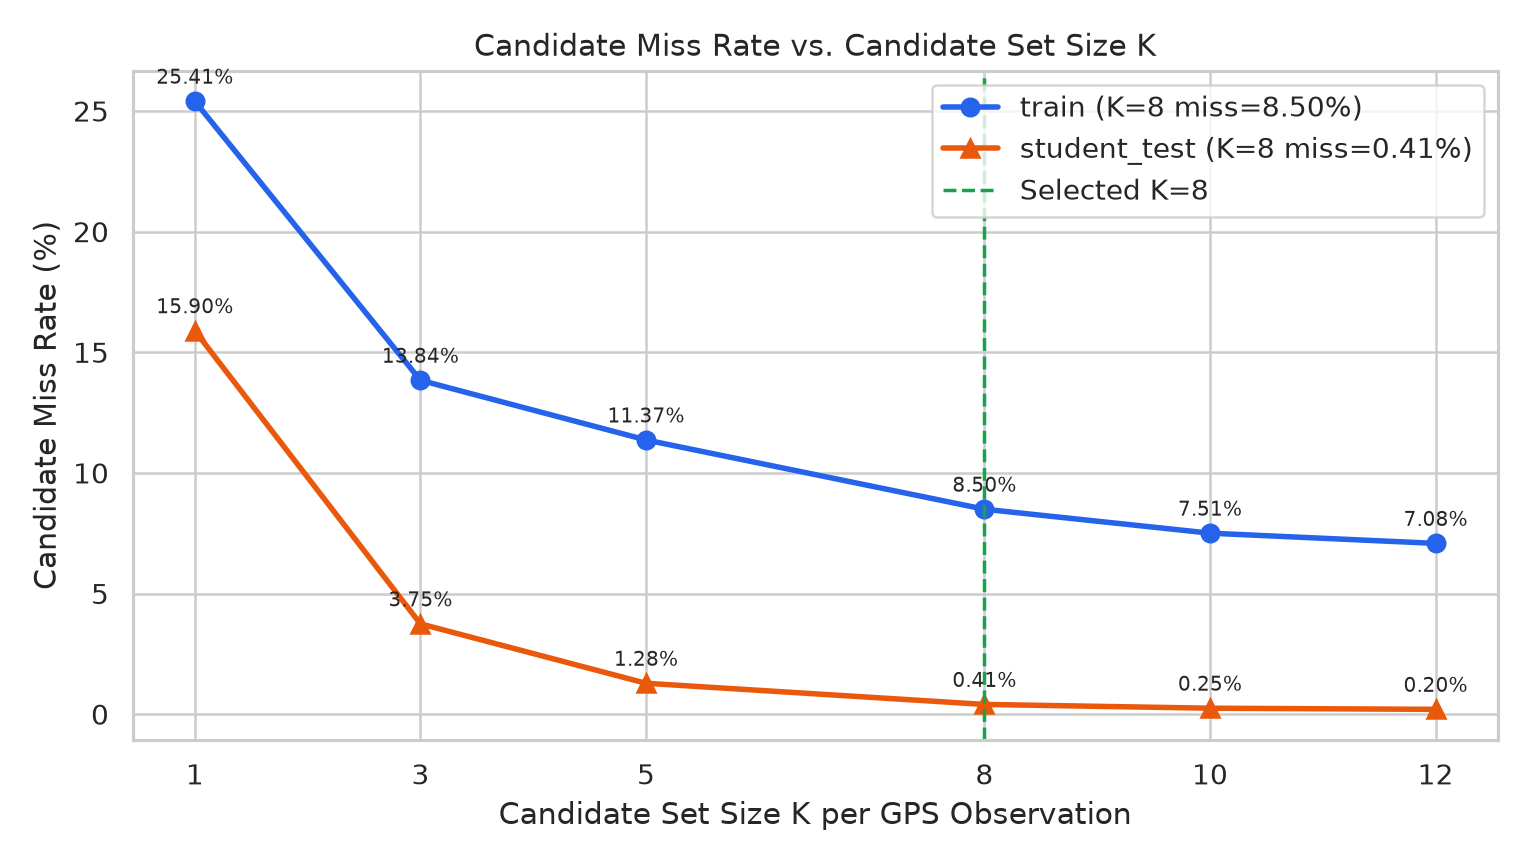
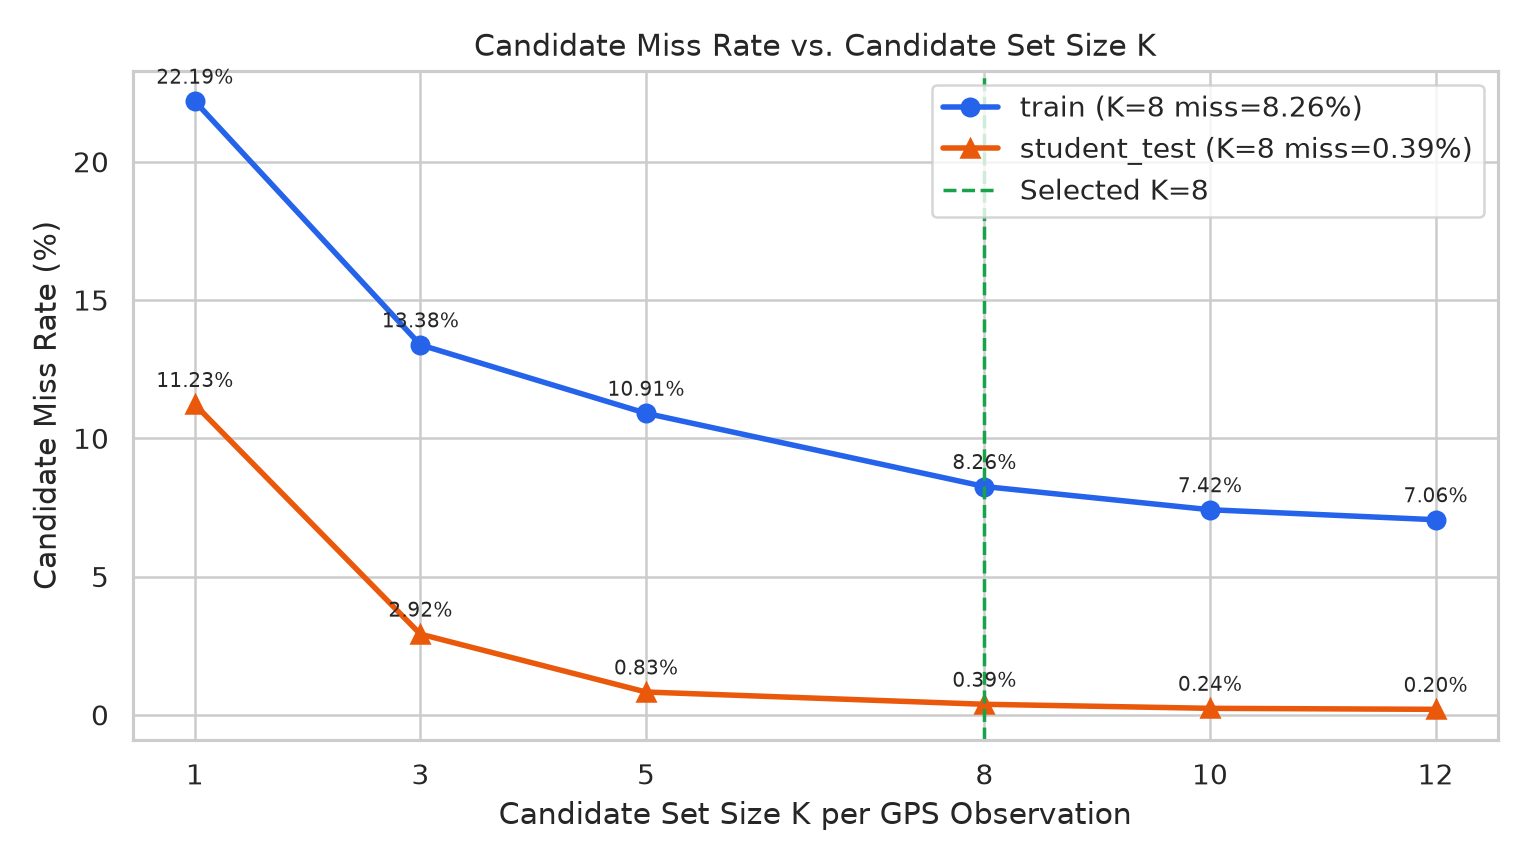
feat(features): smoothed t+/-4 trajectory window and 2-sided chain margin descriptors

diff --git a/src/features/feature_engineering.py b/src/features/feature_engineering.py
@@ -12,6 +12,7 @@ import matplotlib.pyplot as plt
 import numpy as np
 import pandas as pd
 import seaborn as sns
+from scipy.ndimage import gaussian_filter1d
 
 from src.eda.inventory_and_quality import BASE_DIR, load_trip_raw
 from src.eda.trajectory_analysis import project_coords_to_utm
@@ -146,27 +147,47 @@ def extract_trip_features(
     # Group 4: Trajectory Kinematics & Local Window (5)
     speed_feat = np.broadcast_to(gps_speed[:, None], (n, k))
     dt_feat = np.broadcast_to(np.clip(dt_prev, 0.0, 600.0)[:, None], (n, k))
-    pts_prev = np.vstack([pts_xy[:1], pts_xy[:-1]]) if n > 1 else pts_xy
-    pts_next = np.vstack([pts_xy[1:], pts_xy[-1:]]) if n > 1 else pts_xy
+    idx_arr = np.arange(n)
+    if n > 1:
+        sm_xy = np.column_stack(
+            [
+                gaussian_filter1d(pts_xy[:, 0], sigma=2.5, mode="nearest"),
+                gaussian_filter1d(pts_xy[:, 1], sigma=2.5, mode="nearest"),
+            ]
+        )
+    else:
+        sm_xy = pts_xy
+    pts_prev = sm_xy[np.maximum(0, idx_arr - 4)]
+    pts_next = sm_xy[np.minimum(n - 1, idx_arr + 4)]
     dist_prev_obs = _point_to_cand_segments_dist(pts_prev, ca, cab, clen2)
     dist_next_obs = _point_to_cand_segments_dist(pts_next, ca, cab, clen2)
-    mean_win3 = (dist_prev_obs + cand_dists + dist_next_obs) / 3.0
+    mean_win3_raw = (dist_prev_obs + cand_dists + dist_next_obs) / 3.0
+    mean_win3 = mean_win3_raw - np.min(mean_win3_raw, axis=1, keepdims=True)
 
     # Group 5: Graph Topology & Continuity (4)
     from_in = in_deg[cand_u].astype(np.float64)
     to_out = out_deg[cand_v].astype(np.float64)
     bidir = is_bidir_all[cand_arcs]
 
-    # Top-3 nearest candidates by distance at t-1 for connectivity check
-    dist_order_prev = np.argsort(cand_dists, axis=1)[:, : min(3, k)]
-    top3_arcs_prev = np.take_along_axis(cand_arcs, dist_order_prev, axis=1)
-    top3_v_prev = v_all[top3_arcs_prev]
+    # 2-sided local connected-chain cost margin across (t-3, t, t+3)
+    emit_loc = cand_dists + 1.5 * (1.0 - cos_sm)
+    p_idx = np.maximum(0, idx_arr - 3)
+    n_idx = np.minimum(n - 1, idx_arr + 3)
 
-    prev_conn = np.zeros((n, k), dtype=np.float64)
-    if n > 1:
-        same_arc = np.any(cand_arcs[1:, :, None] == top3_arcs_prev[:-1, None, :], axis=2)
-        adj_arc = np.any(cand_u[1:, :, None] == top3_v_prev[:-1, None, :], axis=2)
-        prev_conn[1:] = (same_arc | adj_arc).astype(np.float64)
+    same_p = cand_arcs[:, :, None] == cand_arcs[p_idx, None, :]
+    conn_p = cand_u[:, :, None] == cand_v[p_idx, None, :]
+    ut_p = conn_p & (cand_v[:, :, None] == cand_u[p_idx, None, :])
+    pen_p = np.where(same_p, 0.0, np.where(conn_p, np.where(ut_p, 8.0, 0.5), 15.0))
+    best_p = np.min(emit_loc[p_idx, None, :] + pen_p, axis=2)
+
+    same_n = cand_arcs[:, :, None] == cand_arcs[n_idx, None, :]
+    conn_n = cand_v[:, :, None] == cand_u[n_idx, None, :]
+    ut_n = conn_n & (cand_u[:, :, None] == cand_v[n_idx, None, :])
+    pen_n = np.where(same_n, 0.0, np.where(conn_n, np.where(ut_n, 8.0, 0.5), 15.0))
+    best_n = np.min(emit_loc[n_idx, None, :] + pen_n, axis=2)
+
+    chain_score = best_p + emit_loc + best_n
+    prev_conn = chain_score - np.min(chain_score, axis=1, keepdims=True)
 
     X = np.stack(
         [
@@ -334,7 +355,7 @@ def plot_feature_separability(train_cache: Path) -> None:
         ("dist_to_arc_m", "Point-to-Arc Distance (m, clipped 60 m)", (0.0, 60.0)),
         ("dist_diff_from_best_m", "Distance Above Best Candidate (m, clipped 50 m)", (0.0, 50.0)),
         ("cos_heading_diff_smooth", "Cosine of Smoothed Heading Difference", (-1.0, 1.0)),
-        ("prev_cand_connected", "Connected to Top-3 Candidates at t-1", None),
+        ("prev_cand_connected", "2-Sided Local Chain Cost Margin (clipped 40 m)", (0.0, 40.0)),
     ]
 
     sns.set_theme(style="whitegrid")

diff --git a/reports/features/Feature_Engineering_Report.md b/reports/features/Feature_Engineering_Report.md
@@ -7,23 +7,24 @@
 
 ## 1. Candidate Generation and Route Alignment
 
-In raw form, each trip holds up to 307,392 road arcs, while `.route` lists traversed `arc_id`s rather than per-observation labels. To convert map-matching into supervised classification plus sequential decoding, we execute two pre-modeling steps:
+In raw form, each trip holds up to 307,392 road arcs, while `.route` lists traversed `arc_id` values rather than per-observation labels. To convert map-matching into supervised classification plus sequential decoding, we run two pre-modeling steps:
 
-1. **Monotonic DP alignment (`align_route_to_observations`):** On labeled `train` and `student_test` trips, dynamic programming aligns each GPS observation $t$ monotonically onto `.route` indices $j_t \in [j_{t-1}, j_{t-1} + 15]$ using point-to-arc distance plus heading alignment (`1.5 * (1 - cos_heading)`), with a finite prefix-minimum fallback for multi-minute GPS gaps.
-2. **3-point spatial candidate generation (`generate_candidates`):** We index 3 points along every road arc (at fractions 0.15, 0.50, and 0.85) in a `cKDTree` so long highway segments are covered alongside short intersections. For each GPS observation, we retrieve the 72 nearest sample points, compute exact point-to-segment distances, rank unique `arc_id`s by `dist + 0.5 * (1 - cos_heading_smooth)`, and keep the top-$K$ candidates.
+1. **Turnaround-aware velocity smoothing (`compute_smoothed_velocities`):** Real urban GPS tracks frequently pause at intersections and turnaround stops where raw 5-point finite differences invert direction under 5 m GPS cloud jitter. We smooth planar UTM coordinates with a Gaussian filter (`sigma = 2.5`), extract backward and forward spatial chords at `R = 20 m`, and split opposing chords (`dot(ub, uf) < -0.2`) so arrival pings retain arrival heading and departure pings retain departure heading. Instantaneous derivatives (`sigma = 1.2`) supply local directional variation.
+2. **Monotonic DP alignment (`align_route_to_observations`):** On labeled `train` and `student_test` trips, dynamic programming aligns each GPS observation `t` monotonically onto `.route` indices `j_t in [j_{t-1}, j_{t-1} + 15]` using point-to-arc distance plus heading alignment (`1.5 * (1 - cos_heading)`), with a `+50.0` prefix-minimum fallback for multi-minute GPS gaps.
+3. **3-point spatial candidate generation (`generate_candidates`):** We index 3 points along every road arc (at fractions `0.15`, `0.50`, and `0.85`) in a `cKDTree` so long highway segments are covered alongside short intersections. For each GPS observation, we retrieve the 72 nearest sample points, compute exact point-to-segment distances, rank unique `arc_id` entries by `dist + 0.5 * (1 - cos_heading_smooth)`, and keep the top `K` candidates.
 
-Table 1 and Figure 1 show Candidate Miss Rate across $K \in \{1, 3, 5, 8, 10, 12\}$.
+Table 1 and Figure 1 show Candidate Miss Rate across `K in {1, 3, 5, 8, 10, 12}`.
 
 | Partition | K = 1 | K = 3 | K = 5 | **K = 8 (Selected)** | K = 10 | K = 12 |
 |---|---:|---:|---:|---:|---:|---:|
-| `train` Pooled Miss Rate | 25.4116% | 13.8439% | 11.3700% | **8.4988%** | 7.5061% | 7.0824% |
-| `train` Median Trip Miss Rate | 14.1478% | 2.9517% | 1.0534% | **0.3085%** | 0.1587% | 0.0750% |
-| `student_test` Pooled Miss Rate | 15.8977% | 3.7474% | 1.2839% | **0.4071%** | 0.2505% | 0.2035% |
-| `student_test` Median Trip Miss Rate | 15.8968% | 3.6386% | 1.2231% | **0.2677%** | 0.1382% | 0.1166% |
+| `train` Pooled Miss Rate | 22.1930% | 13.3837% | 10.9094% | **8.2604%** | 7.4212% | 7.0594% |
+| `train` Median Trip Miss Rate | 12.0866% | 2.5474% | 0.8998% | **0.2927%** | 0.1395% | 0.0757% |
+| `student_test` Pooled Miss Rate | 11.2265% | 2.9228% | 0.8299% | **0.3862%** | 0.2401% | 0.2035% |
+| `student_test` Median Trip Miss Rate | 13.6779% | 3.1140% | 0.5465% | **0.2165%** | 0.1254% | 0.1166% |
 
 ![Figure 1: Candidate Miss Rate versus candidate set size K](figures/fig1_candidate_miss_rate_vs_k.png)
 
-At **K = 8**, `student_test` achieves a pooled Candidate Miss Rate of **0.4071%** (19,082 of 19,160 observations captured, or **99.5929% recall**), with a worst trip miss rate of 1.8112%. On `train`, the median trip miss rate is **0.3085%**. Two whole-trip offset outliers (`00000033` at 66.1704% and `00000054` at 60.5654%) account for 15,564 of the 17,713 `train` misses because more than 8 closer streets sit between their GPS tracks and `.route`. Choosing $K = 8$ balances 99.59% recall on `student_test` against an $8\times$ candidate multiplier for training and Viterbi decoding (`8 x 8 = 64` transitions per step).
+At **K = 8**, `student_test` achieves a pooled Candidate Miss Rate of **0.3862%** (`19,086` of `19,160` observations captured, or **99.6138% recall**), with a median trip miss rate of `0.2165%` and worst trip miss rate of `1.8112%`. On `train`, the median trip miss rate is **0.2927%**, while two whole-trip offset outliers (`00000033` at `66.0678%` and `00000054` at `58.4477%`) account for `15,149` of the `17,216` `train` misses (`88.0%`) because more than 8 intermediate streets sit between their GPS tracks and `.route`. Choosing `K = 8` balances `99.61%` recall on `student_test` against an `8x8 = 64` transition branching factor per Viterbi step.
 
 *Source:* [candidate_miss_rate_sensitivity.csv](candidate_miss_rate_sensitivity.csv), [per_trip_candidate_stats.csv](per_trip_candidate_stats.csv)
 
@@ -31,27 +32,30 @@ At **K = 8**, `student_test` achieves a pooled Candidate Miss Rate of **0.4071%*
 
 ## 2. The 24 Engineered Features and Separability
 
-We extract 24 features per `(observation, candidate)` pair across five groups in local UTM meters:
+We extract 24 leak-free features per `(observation, candidate)` pair across five groups in local UTM meters:
 
-1. **Spatial Proximity (6):** `dist_to_arc_m`, `dist_rank`, `dist_diff_from_best_m`, `dist_ratio_to_best`, `dist_zscore_in_cands`, `gaussian_emission_prior` ($\exp(-0.5(d/10)^2)$).
-2. **Segment Projection & Geometry (4):** `proj_fraction` ($t \in [0, 1]$), `dist_to_from_node_m`, `dist_to_to_node_m`, `arc_length_m`.
-3. **Heading & Directionality (5):** `cos_heading_diff_inst`, `sin_heading_diff_inst`, `cos_heading_diff_smooth`, `heading_diff_deg_smooth`, `is_forward_aligned`.
-4. **Trajectory Kinematics & Local Window (5):** `gps_speed_mps` (clipped at 60 m/s), `dt_prev_s` (capped at 600 s), `dist_prev_obs_to_arc_m`, `dist_next_obs_to_arc_m`, `mean_window3_dist_to_arc_m`.
-5. **Graph Topology & Continuity (4):** `from_node_in_deg`, `to_node_out_deg`, `is_bidirectional_arc`, `prev_cand_connected` (whether the candidate matches or follows any top-3 candidate from $t-1$).
+1. **Spatial Proximity (6):** `dist_to_arc_m`, `dist_rank`, `dist_diff_from_best_m`, `dist_ratio_to_best`, `dist_zscore_in_cands`, `gaussian_emission_prior` (`exp(-0.5 * (d / 10)^2)`).
+2. **Segment Projection and Geometry (4):** `proj_fraction` (`t in [0, 1]`), `dist_to_from_node_m`, `dist_to_to_node_m`, `arc_length_m`.
+3. **Heading and Directionality (5):** `cos_heading_diff_inst`, `sin_heading_diff_inst`, `cos_heading_diff_smooth` (turnaround-aware 20 m chord), `heading_diff_deg_smooth`, `is_forward_aligned`.
+4. **Trajectory Kinematics and Local Window (5):** `gps_speed_mps` (clipped at 60 m/s), `dt_prev_s` (capped at 600 s), `dist_prev_obs_to_arc_m` (Gaussian-smoothed `t - 4`), `dist_next_obs_to_arc_m` (Gaussian-smoothed `t + 4`), `mean_window3_dist_to_arc_m` (relative window margin above best candidate across `t - 4`, `t`, `t + 4`).
+5. **Graph Topology and Continuity (4):** `from_node_in_deg`, `to_node_out_deg`, `is_bidirectional_arc`, `prev_cand_connected` (2-sided local connected-chain cost margin across `t - 3`, `t`, and `t + 3` combining distance, heading, 1-hop directed connectivity, and U-turn penalty).
 
-Table 2 reports selected high-signal features separating matched (`y = 1`) and unmatched (`y = 0`) candidates across all 1,667,336 `train` rows (with `y` derived from monotonic DP alignment on `train`), and Figure 2 plots four of these distributions.
+Table 2 reports selected high-signal features separating matched (`y = 1`) and unmatched (`y = 0`) candidates across all `1,667,336` `train` rows, and Figure 2 plots four key distributions.
 
 | Feature | Matched Mean (Med) | Unmatched Mean (Med) | Corr with `y` |
 |---|---:|---:|---:|
-| `dist_rank` | 0.4664 (0.0000) | 3.8918 (4.0000) | -0.4758 |
-| `gaussian_emission_prior` | 0.7636 (0.8779) | 0.2172 (0.0037) | +0.4737 |
-| `dist_zscore_in_cands` | -1.1482 (-1.2082) | 0.1483 (0.3253) | -0.4476 |
-| `heading_diff_deg_smooth` | 24.9311 (8.0806) | 92.6711 (91.2817) | -0.3234 |
-| `cos_heading_diff_smooth` | 0.7879 (0.9901) | -0.0275 (-0.0224) | +0.3117 |
-| `cos_heading_diff_inst` | 0.7052 (0.9698) | -0.0351 (-0.0624) | +0.2897 |
-| `is_forward_aligned` | 0.9122 (1.0000) | 0.4938 (0.0000) | +0.2673 |
-| `prev_cand_connected` | 0.9471 (1.0000) | 0.5620 (1.0000) | +0.2508 |
-| `dist_to_arc_m` | 10.4673 (5.1037) | 69.5474 (33.4345) | -0.1841 |
+| `dist_rank` | 0.4370 (0.0000) | 3.8967 (4.0000) | -0.4811 |
+| `gaussian_emission_prior` | 0.7618 (0.8772) | 0.2172 (0.0038) | +0.4726 |
+| `dist_zscore_in_cands` | -1.1430 (-1.2067) | 0.1481 (0.3247) | -0.4463 |
+| `heading_diff_deg_smooth` | 10.6927 (2.9352) | 93.4153 (91.0352) | -0.3672 |
+| `cos_heading_diff_smooth` | 0.9244 (0.9987) | -0.0336 (-0.0181) | +0.3522 |
+| `cos_heading_diff_inst` | 0.8014 (0.9937) | -0.0398 (-0.0509) | +0.3190 |
+| `is_forward_aligned` | 0.9708 (1.0000) | 0.4924 (0.0000) | +0.3062 |
+| `prev_cand_connected` | 3.1810 (0.0000) | 74.3727 (42.6893) | -0.2143 |
+| `dist_to_arc_m` | 10.7467 (5.1179) | 69.5313 (33.4238) | -0.1834 |
+| `dist_prev_obs_to_arc_m` | 24.8800 (8.5895) | 83.0430 (51.5271) | -0.1745 |
+
+Replacing the 5-point velocity window with turnaround-aware 20 m spatial chords cut matched median heading error from `8.08 deg` to `2.94 deg`, lifted `cos_heading_diff_smooth` correlation from `+0.3117` to `+0.3522` (`pos_median = 0.9987`), and raised forward-aligned matched recall from `91.22%` to `97.08%`. Upgrading `prev_cand_connected` to a 2-sided chain margin yields a median margin of `0.0000 m` for matched arcs versus `42.6893 m` for unmatched arcs.
 
 ![Figure 2: Feature distributions for matched vs. unmatched candidates](figures/fig2_feature_distributions_pos_vs_neg.png)
 
